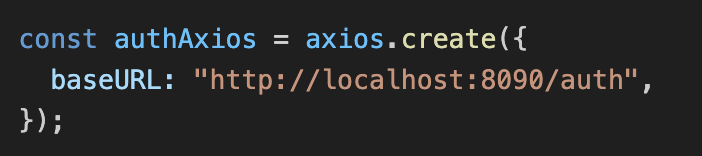
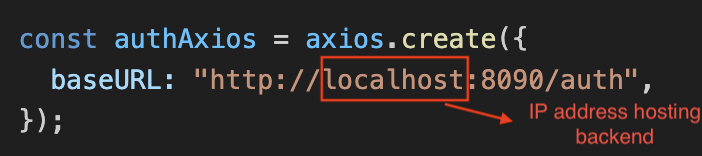
update

Changed region(s): [[0.4487, 0.3333, 1.0, 0.7949], [0.8077, 0.8205, 0.9274, 0.9231]]

diff --git a/README.md b/README.md
@@ -35,37 +35,18 @@
       - Finance-Tracker-App/api/api/authApi.js
       - Finance-Tracker-App/api/api/transactionApi.js
       - Replace **localhost** with the **IP Adress** that host the backend services
+    - Start the React Native app(Expo):
+      - npm start
 <p align="center">
   <img src="/README_images/transactionAxios.png" alt="transactionAxios" width="50%" />
 </p>
 <p align="center">
   <img src="/README_images/authAxios.png" alt="authAxios" width="50%" />
 </p>
-    - Start the React Native app(Expo):
-      - npm start
-
-- **Feature Demonstration**
-
-  - 
-  - Uses **Spring Security** and **JWT** for authentication
-  - Connected to a **MySQL** database
-  - Backend handles **password encryption**
-  - Sends automatic registration emails via **Gmail SMTP**
-  
-- 📈 **Front-end Stack tech**
-  - Built with **React.js**
-  - Styled using **Tailwind CSS and Shadcn UI**
-  - **Axios** used for API calls
-  - **React Router** for page navigation
 
 ## Architecture Diagram
 
-<p align="center">
-  <img src="images/System-Architecture.png" alt="System Architecture" />
-</p>
-<p align="center">
-  <img src="images/System-Flow-Chart.png" alt="System Flow Chart"/>
-</p>
+## Feature Demonstration
 
 ## UI Preview
 
